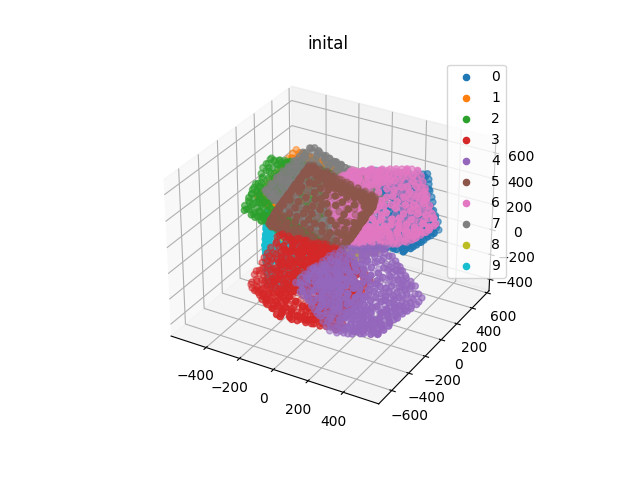
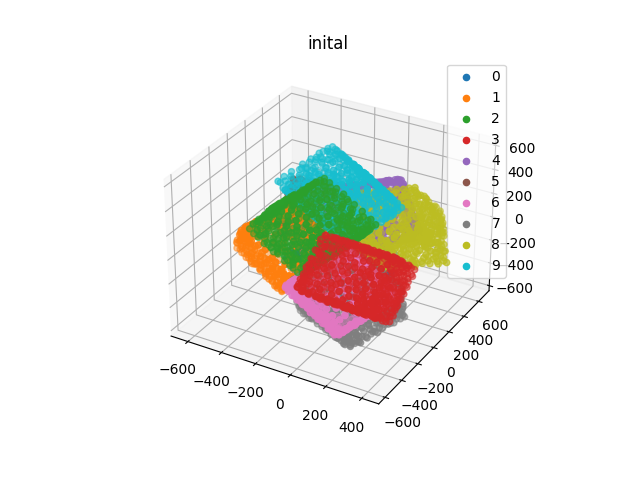
Updated point clouds

Changed region(s): [[0.25, 0.1875, 0.8438, 0.9062], [0.25, 0.75, 0.4375, 0.8438], [0.4375, 0.8438, 0.5625, 0.9062]]

diff --git a/ShapeRegistration.py b/ShapeRegistration.py
@@ -137,7 +137,7 @@ def print_points(thing, shapes, K, title='', q=None):
     plt.show()
 
 
-def main(points: torch.Tensor, mu: float = .1, global_max: int = 100, local_max: int = 100, lmda: float = 10):
+def main(points: torch.Tensor, mu: float = .0001, global_max: int = 100, local_max: int = 100, lmda: float = 10):
     """
     Runs the main loop of the algorithm
     :param points: A tensor of K point clouds
@@ -198,9 +198,7 @@ def main(points: torch.Tensor, mu: float = .1, global_max: int = 100, local_max:
                 w_p_m[boolean] = (1 - (torch.linalg.norm(points_not.unsqueeze(0) - N['points'], dim=-1)[boolean]
                               / (lmda_d_p * chi_p_o).unsqueeze(0)
                                        .expand(K - 1, n_points)[boolean]) ** 2) ** 2  # (K - 1, n_points)
-                print(N['weights'] <= 0)
                 chi_min = torch.min(N['chi_o'][N['weights'] > 0])
-                print(chi_min)
                 w_d_p = chi_min / N['chi_o']
                 w_bar = torch.sum(N['weights'] * w_p_m * w_d_p, dim=0)
                 r_k_i = torch.zeros(n_points, 3)
@@ -256,12 +254,12 @@ def main(points: torch.Tensor, mu: float = .1, global_max: int = 100, local_max:
         w_hat = torch.cat(w, dim=0)
         chi_n = torch.cat(x, dim=0)
         t_k = t
-        print_points({'Pose Estimation': [[torch.eye(3), torch.zeros(3)] for _ in range(K)]}, points, K,
-                     'Point Cloud iteration', q)
+        # print_points({'Pose Estimation': [[torch.eye(3), torch.zeros(3)] for _ in range(K)]}, points, K,
+        #              'Point Cloud iteration', q)
     print_points({'Pose Estimation': [[torch.eye(3), torch.zeros(3)] for _ in range(K)]}, points, K, 'Point Cloud End')
 
     return {'Pose Estimation': t_k, 'Membership': w_hat, 'q': q}
 
-
+# TODO Find how the membership maps work and output permuted shapes so points at index i are all corresponding points
 if __name__ == '__main__':
     main(torch.randn(10, 1000, 2))
